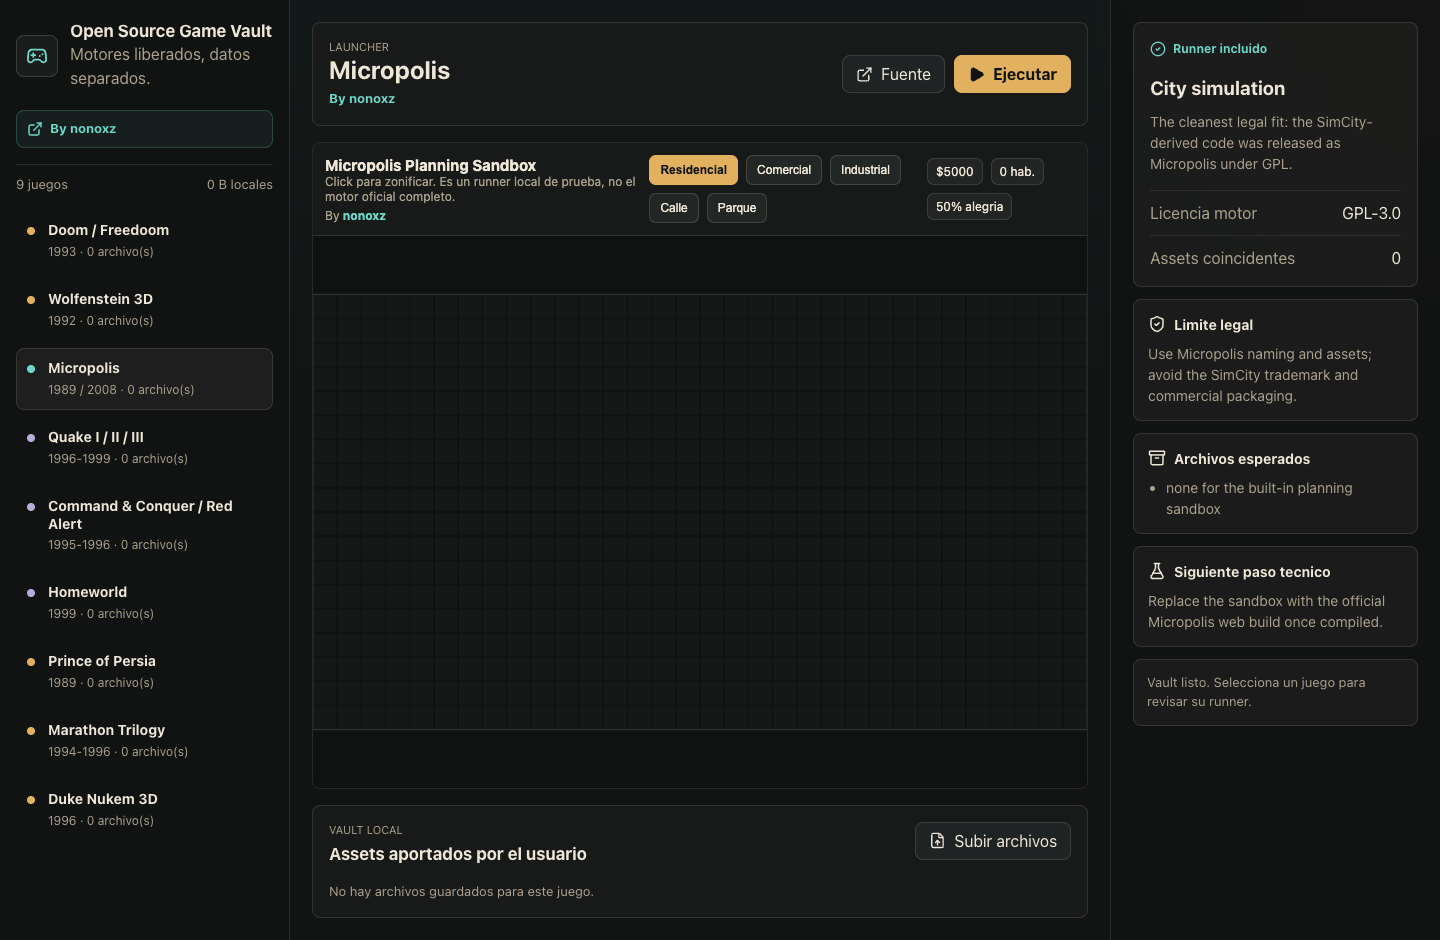
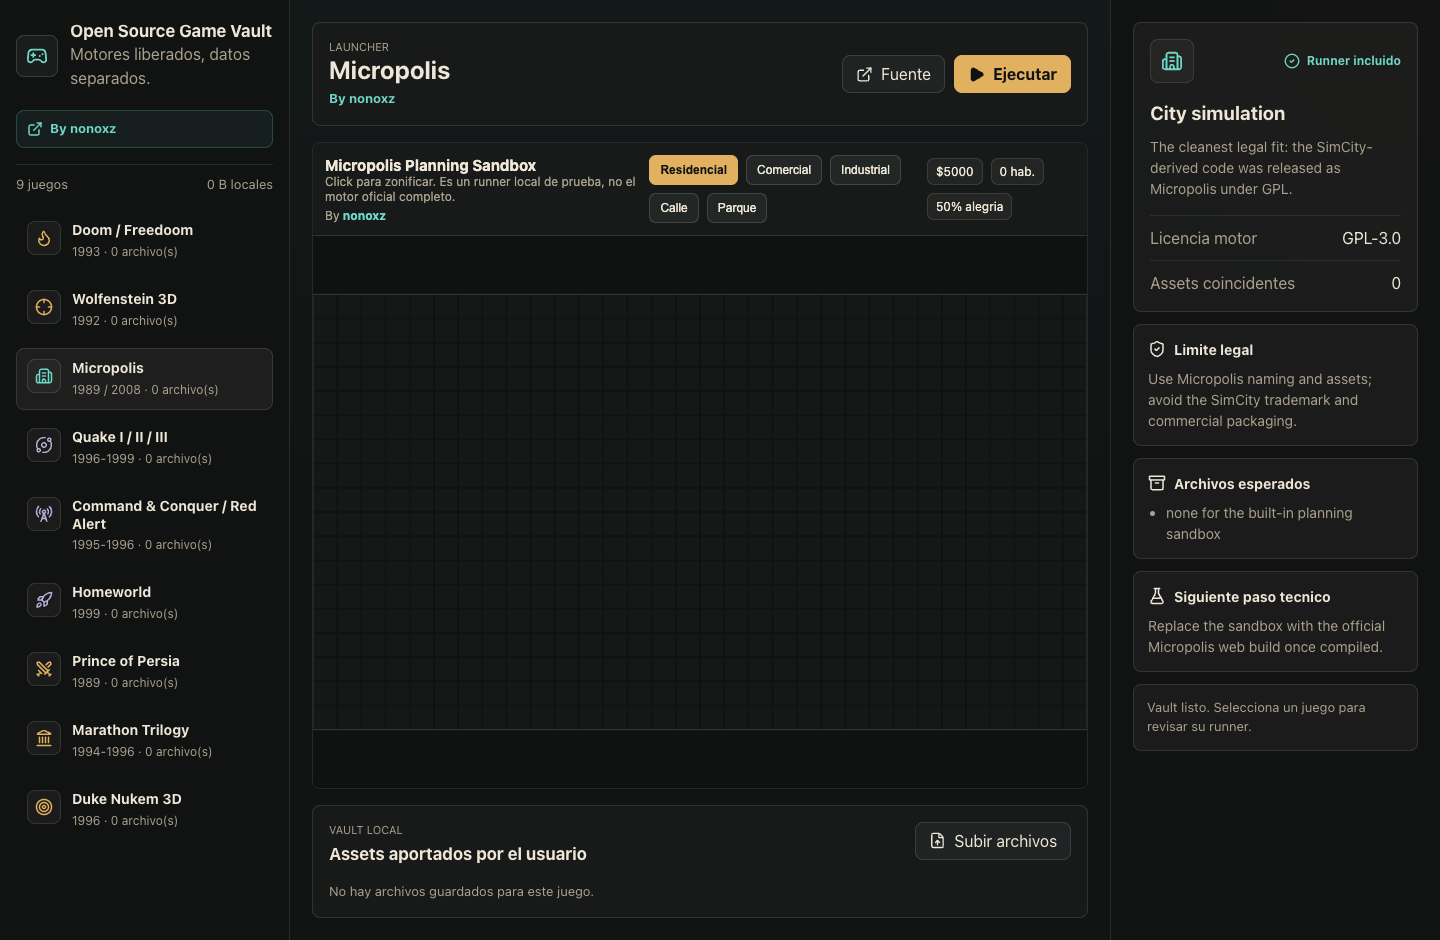
Add game catalog visuals

diff --git a/src/App.css b/src/App.css
@@ -119,7 +119,7 @@
 
 .game-row {
   display: grid;
-  grid-template-columns: 10px 1fr;
+  grid-template-columns: 34px 1fr;
   gap: 11px;
   width: 100%;
   min-height: 62px;
@@ -153,39 +153,41 @@
   font-size: 12px;
 }
 
-.status-dot {
-  width: 8px;
-  height: 8px;
-  margin-top: 6px;
-  border-radius: 999px;
-  background: #8d8577;
+.game-icon,
+.feature-icon {
+  display: grid;
+  place-items: center;
+  border: 1px solid rgba(238, 231, 216, 0.12);
+  border-radius: 8px;
+  background: rgba(238, 231, 216, 0.045);
 }
 
-.status-dot.ready,
+.game-icon {
+  width: 34px;
+  height: 34px;
+}
+
+.feature-icon {
+  width: 44px;
+  height: 44px;
+}
+
+.game-icon.ready,
+.feature-icon.ready,
 .status-badge.ready {
   color: #6dd7c8;
 }
 
-.status-dot.ready {
-  background: #6dd7c8;
-}
-
-.status-dot.adapter,
+.game-icon.adapter,
+.feature-icon.adapter,
 .status-badge.adapter {
   color: #e2b15f;
 }
 
-.status-dot.adapter {
-  background: #e2b15f;
-}
-
-.status-dot.research,
+.game-icon.research,
+.feature-icon.research,
 .status-badge.research {
   color: #b7acd7;
-}
-
-.status-dot.research {
-  background: #b7acd7;
 }
 
 .runner-stage {
@@ -407,11 +409,18 @@
   padding: 16px;
 }
 
+.status-card-head {
+  display: flex;
+  align-items: center;
+  justify-content: space-between;
+  gap: 12px;
+  margin-bottom: 16px;
+}
+
 .status-badge {
   display: inline-flex;
   align-items: center;
   gap: 7px;
-  margin-bottom: 16px;
   font-size: 12px;
   font-weight: 700;
 }

diff --git a/src/App.tsx b/src/App.tsx
@@ -2,16 +2,26 @@ import { useEffect, useMemo, useState } from 'react'
 import type { ChangeEvent, ReactNode } from 'react'
 import {
   Archive,
+  Building2,
   CheckCircle2,
+  Crosshair,
   ExternalLink,
   FileUp,
+  Flame,
   FlaskConical,
   Gamepad2,
   HardDrive,
+  Landmark,
+  Orbit,
   Play,
+  RadioTower,
+  Rocket,
   ShieldCheck,
+  Swords,
+  Target,
   Trash2,
 } from 'lucide-react'
+import type { LucideIcon } from 'lucide-react'
 import './App.css'
 import { defaultGameId, games, type GameEntry, type RuntimeStatus } from './data/games'
 import { deleteAsset, formatBytes, listAssets, saveAssets, type StoredAsset } from './lib/assetStore'
@@ -26,6 +36,18 @@ const statusCopy: Record<RuntimeStatus, string> = {
   ready: 'Este juego tiene un runner local en el sitio.',
   adapter: 'El sitio ya modela assets y permisos; falta enchufar el motor WASM.',
   research: 'Conviene validar motor, assets y rendimiento antes de prometer ejecucion web.',
+}
+
+const gameIcons: Record<string, LucideIcon> = {
+  doom: Flame,
+  wolf3d: Crosshair,
+  micropolis: Building2,
+  quake: Orbit,
+  cnc: RadioTower,
+  homeworld: Rocket,
+  pop: Swords,
+  marathon: Landmark,
+  duke3d: Target,
 }
 
 function byGameId(assets: StoredAsset[], gameId: string) {
@@ -110,6 +132,7 @@ function App() {
         <nav className="game-list">
           {games.map((game) => {
             const gameAssets = byGameId(assets, game.id)
+            const GameIcon = gameIcons[game.id] ?? Gamepad2
             return (
               <button
                 className={game.id === activeGame.id ? 'game-row active' : 'game-row'}
@@ -117,7 +140,9 @@ function App() {
                 onClick={() => setActiveId(game.id)}
                 type="button"
               >
-                <span className={`status-dot ${game.runtimeStatus}`} aria-hidden="true"></span>
+                <span className={`game-icon ${game.runtimeStatus}`} aria-hidden="true">
+                  <GameIcon size={18} />
+                </span>
                 <span>
                   <strong>{game.title}</strong>
                   <small>
@@ -259,11 +284,18 @@ function AssetList({
 }
 
 function StatusCard({ game, matchedCount }: { game: GameEntry; matchedCount: number }) {
+  const GameIcon = gameIcons[game.id] ?? Gamepad2
+
   return (
     <section className="status-card">
-      <div className={`status-badge ${game.runtimeStatus}`}>
-        <CheckCircle2 size={16} aria-hidden="true" />
-        {statusLabel[game.runtimeStatus]}
+      <div className="status-card-head">
+        <div className={`feature-icon ${game.runtimeStatus}`} aria-hidden="true">
+          <GameIcon size={22} />
+        </div>
+        <div className={`status-badge ${game.runtimeStatus}`}>
+          <CheckCircle2 size={16} aria-hidden="true" />
+          {statusLabel[game.runtimeStatus]}
+        </div>
       </div>
       <h3>{game.family}</h3>
       <p>{game.summary}</p>

diff --git a/README.md b/README.md
@@ -4,6 +4,12 @@ Browser launcher for classic open-source game engines, built by [nonoxz](https:/
 
 ![Open Source Game Vault screenshot](docs/screenshot.png)
 
+## Game Catalog Preview
+
+These are original visual badges for the launcher entries. They are not copied game screenshots or commercial artwork.
+
+![Open Source Game Vault game catalog preview](docs/game-catalog.svg)
+
 ## What This Is
 
 Open Source Game Vault is a small web app for organizing and running classic game engines whose source code has been released.